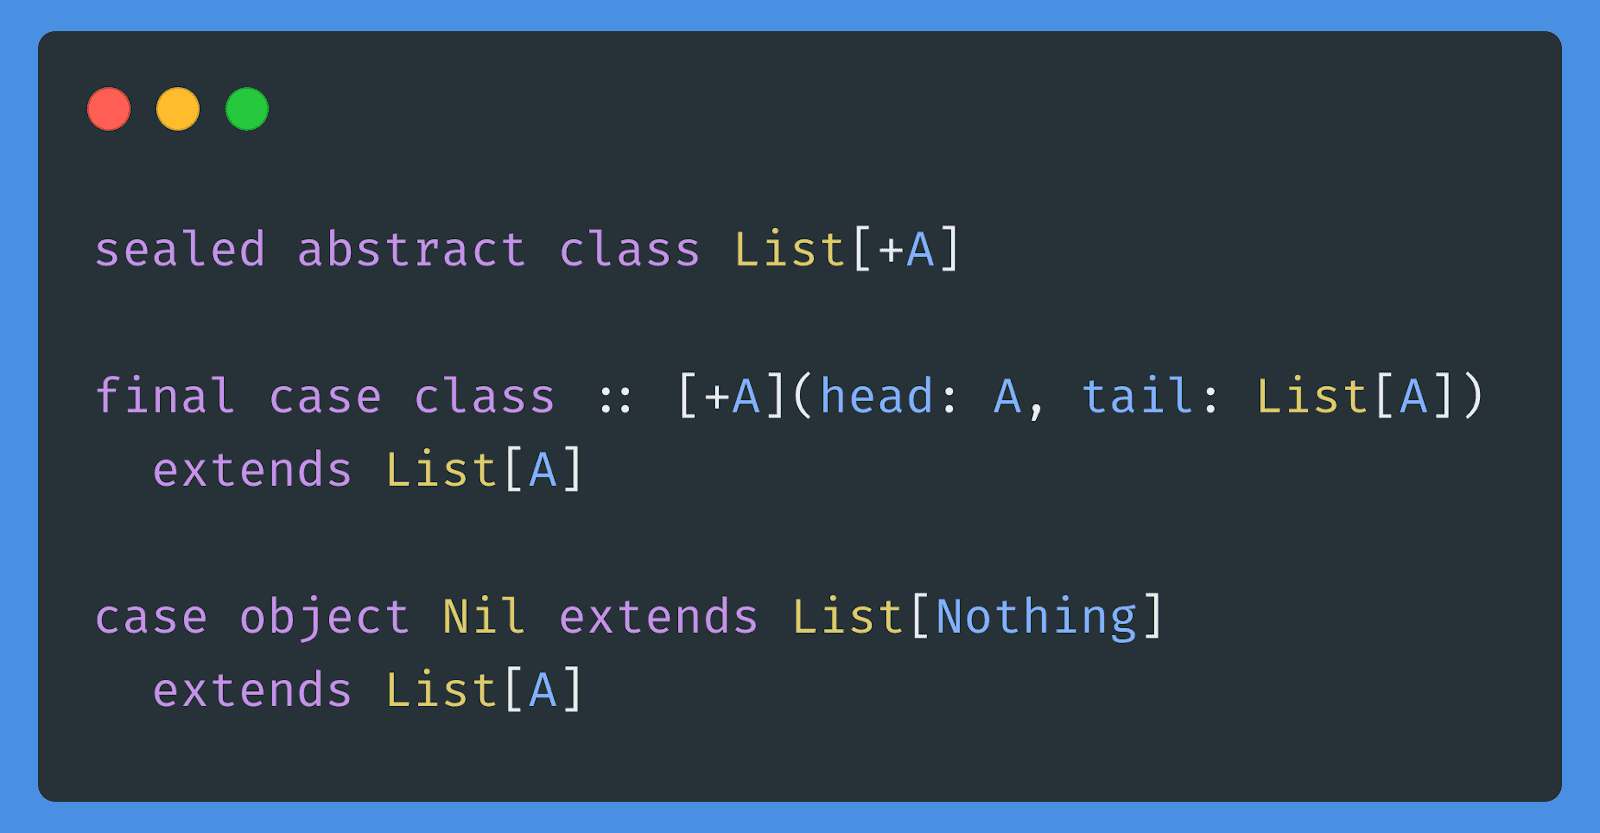
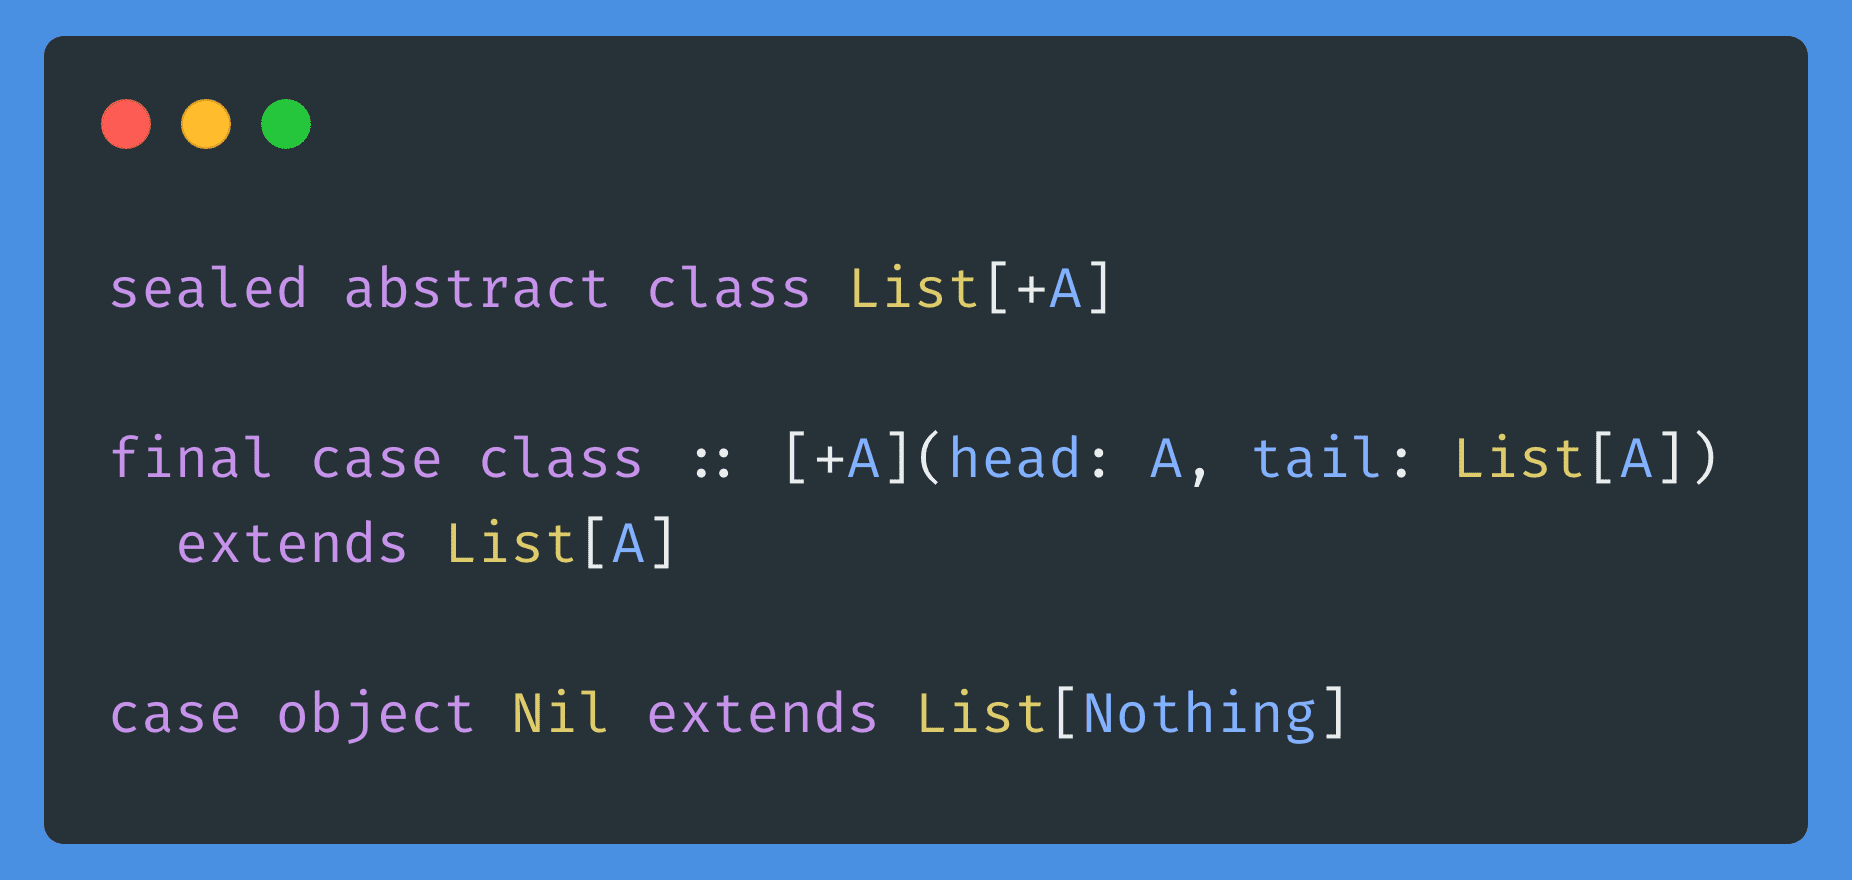
fix

diff --git a/_posts/2021-02-12-scala-list-secret.md b/_posts/2021-02-12-scala-list-secret.md
@@ -22,7 +22,6 @@ final case class :: [+A](head: A, tail: List[A])
   extends List[A]
 
 case object Nil extends List[Nothing]
-  extends List[A]
 ```
 
 Oh boy, I've got news for you — this is the actual definition from Scala's standard library:
@@ -36,7 +35,6 @@ final case class :: [+A](
   extends List[A]
 
 case object Nil extends List[Nothing]
-  extends List[A]
 ```
 
 Yikes, that private `next` value is a `var`. They added it as a `var` such that [ListBuffer](https://www.scala-lang.org/api/current/scala/collection/mutable/ListBuffer.html) can build a list more efficiently (without reversal), because an immutable `List` is in essence a [Stack](https://en.wikipedia.org/wiki/Stack_(abstract_data_type)), so to build one, you'd need to do an O(n) reversal at the end.
